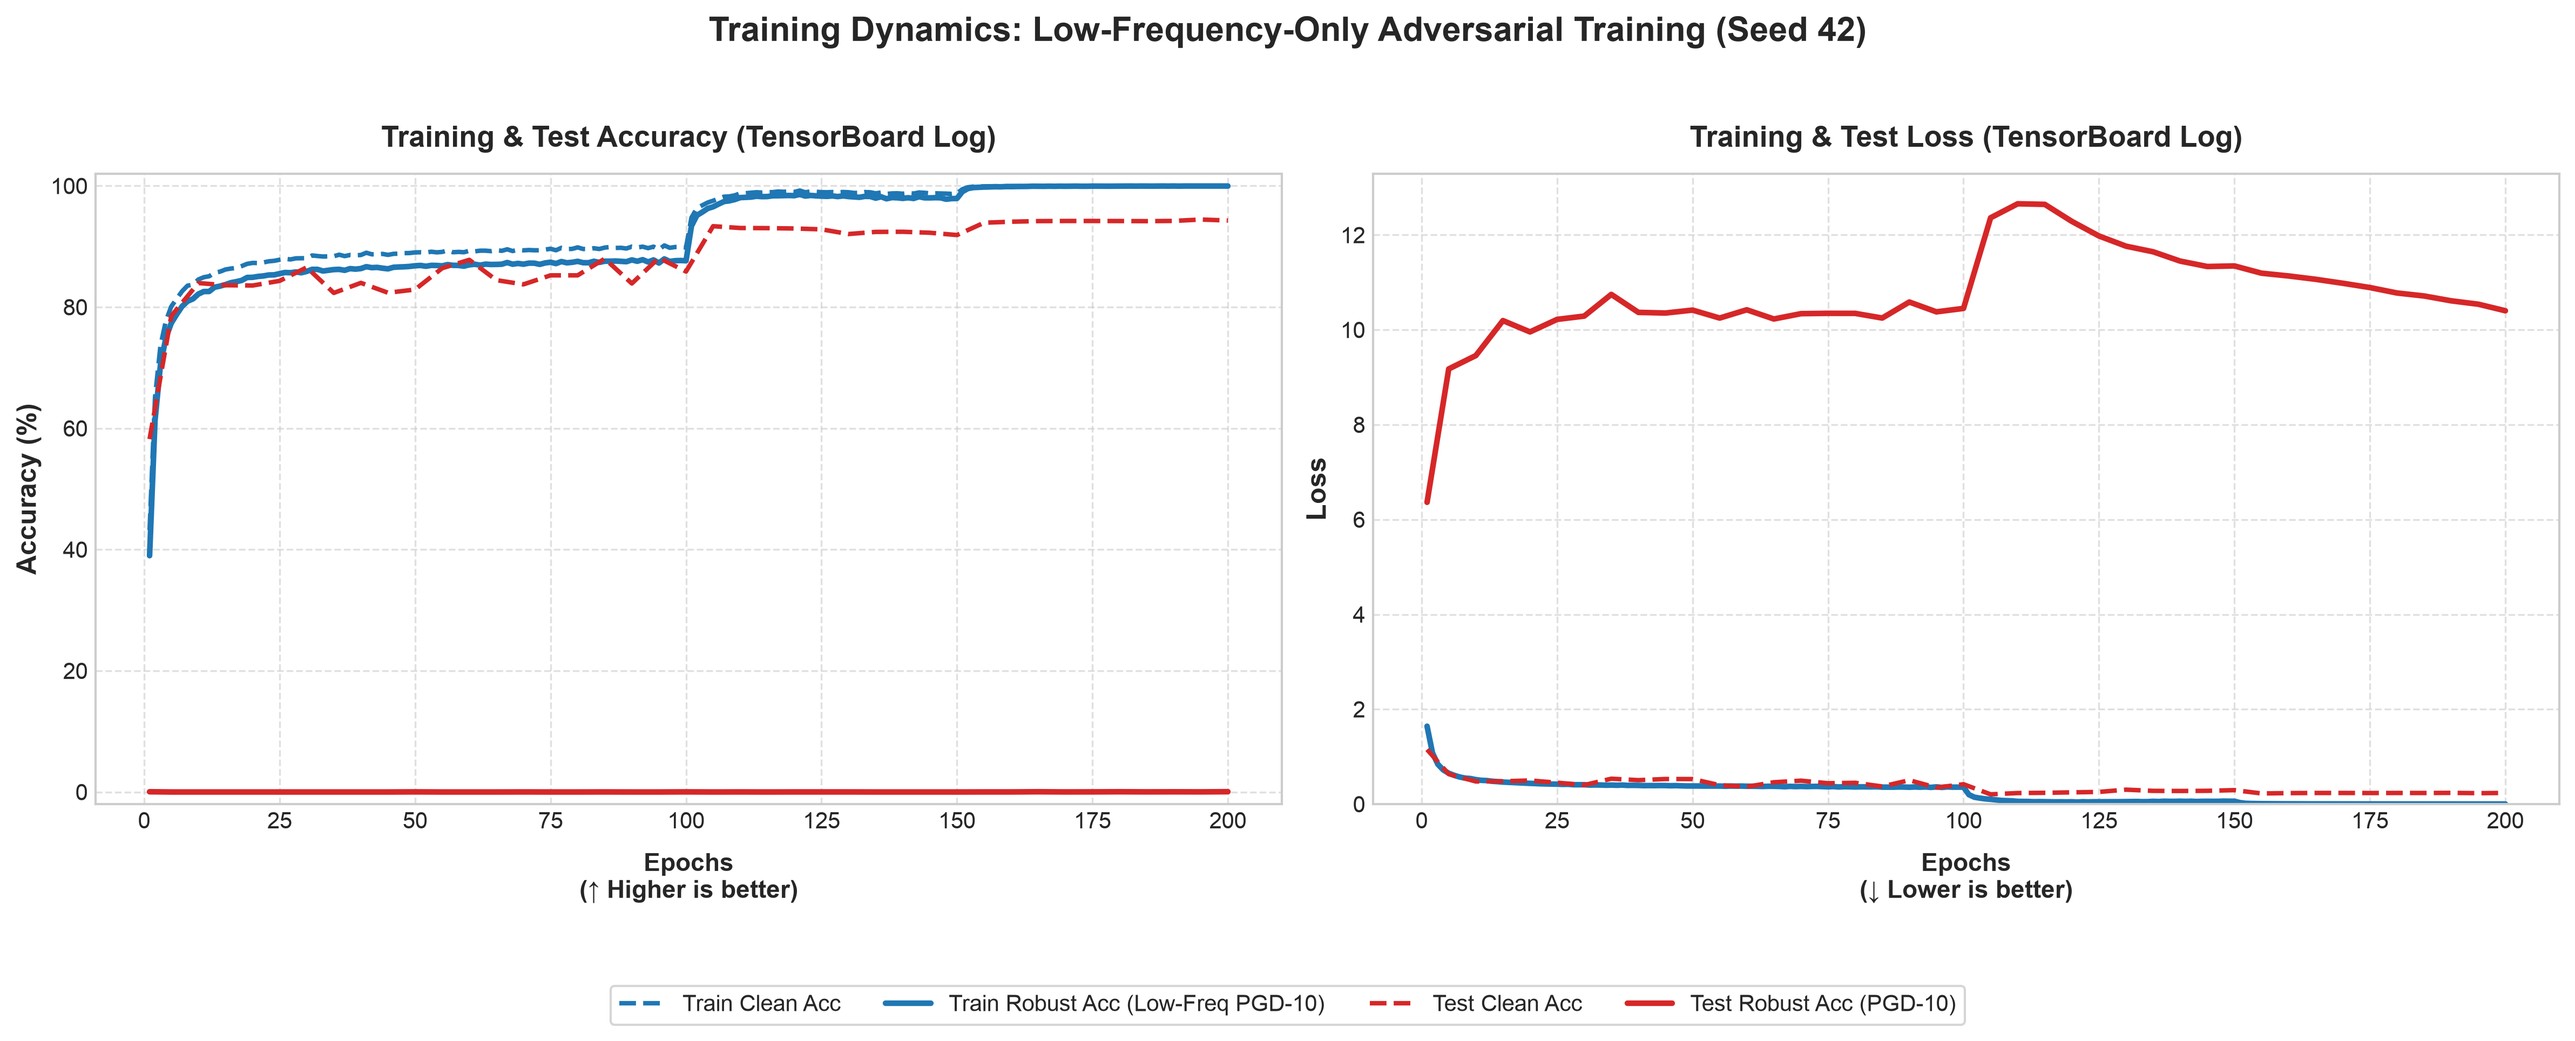
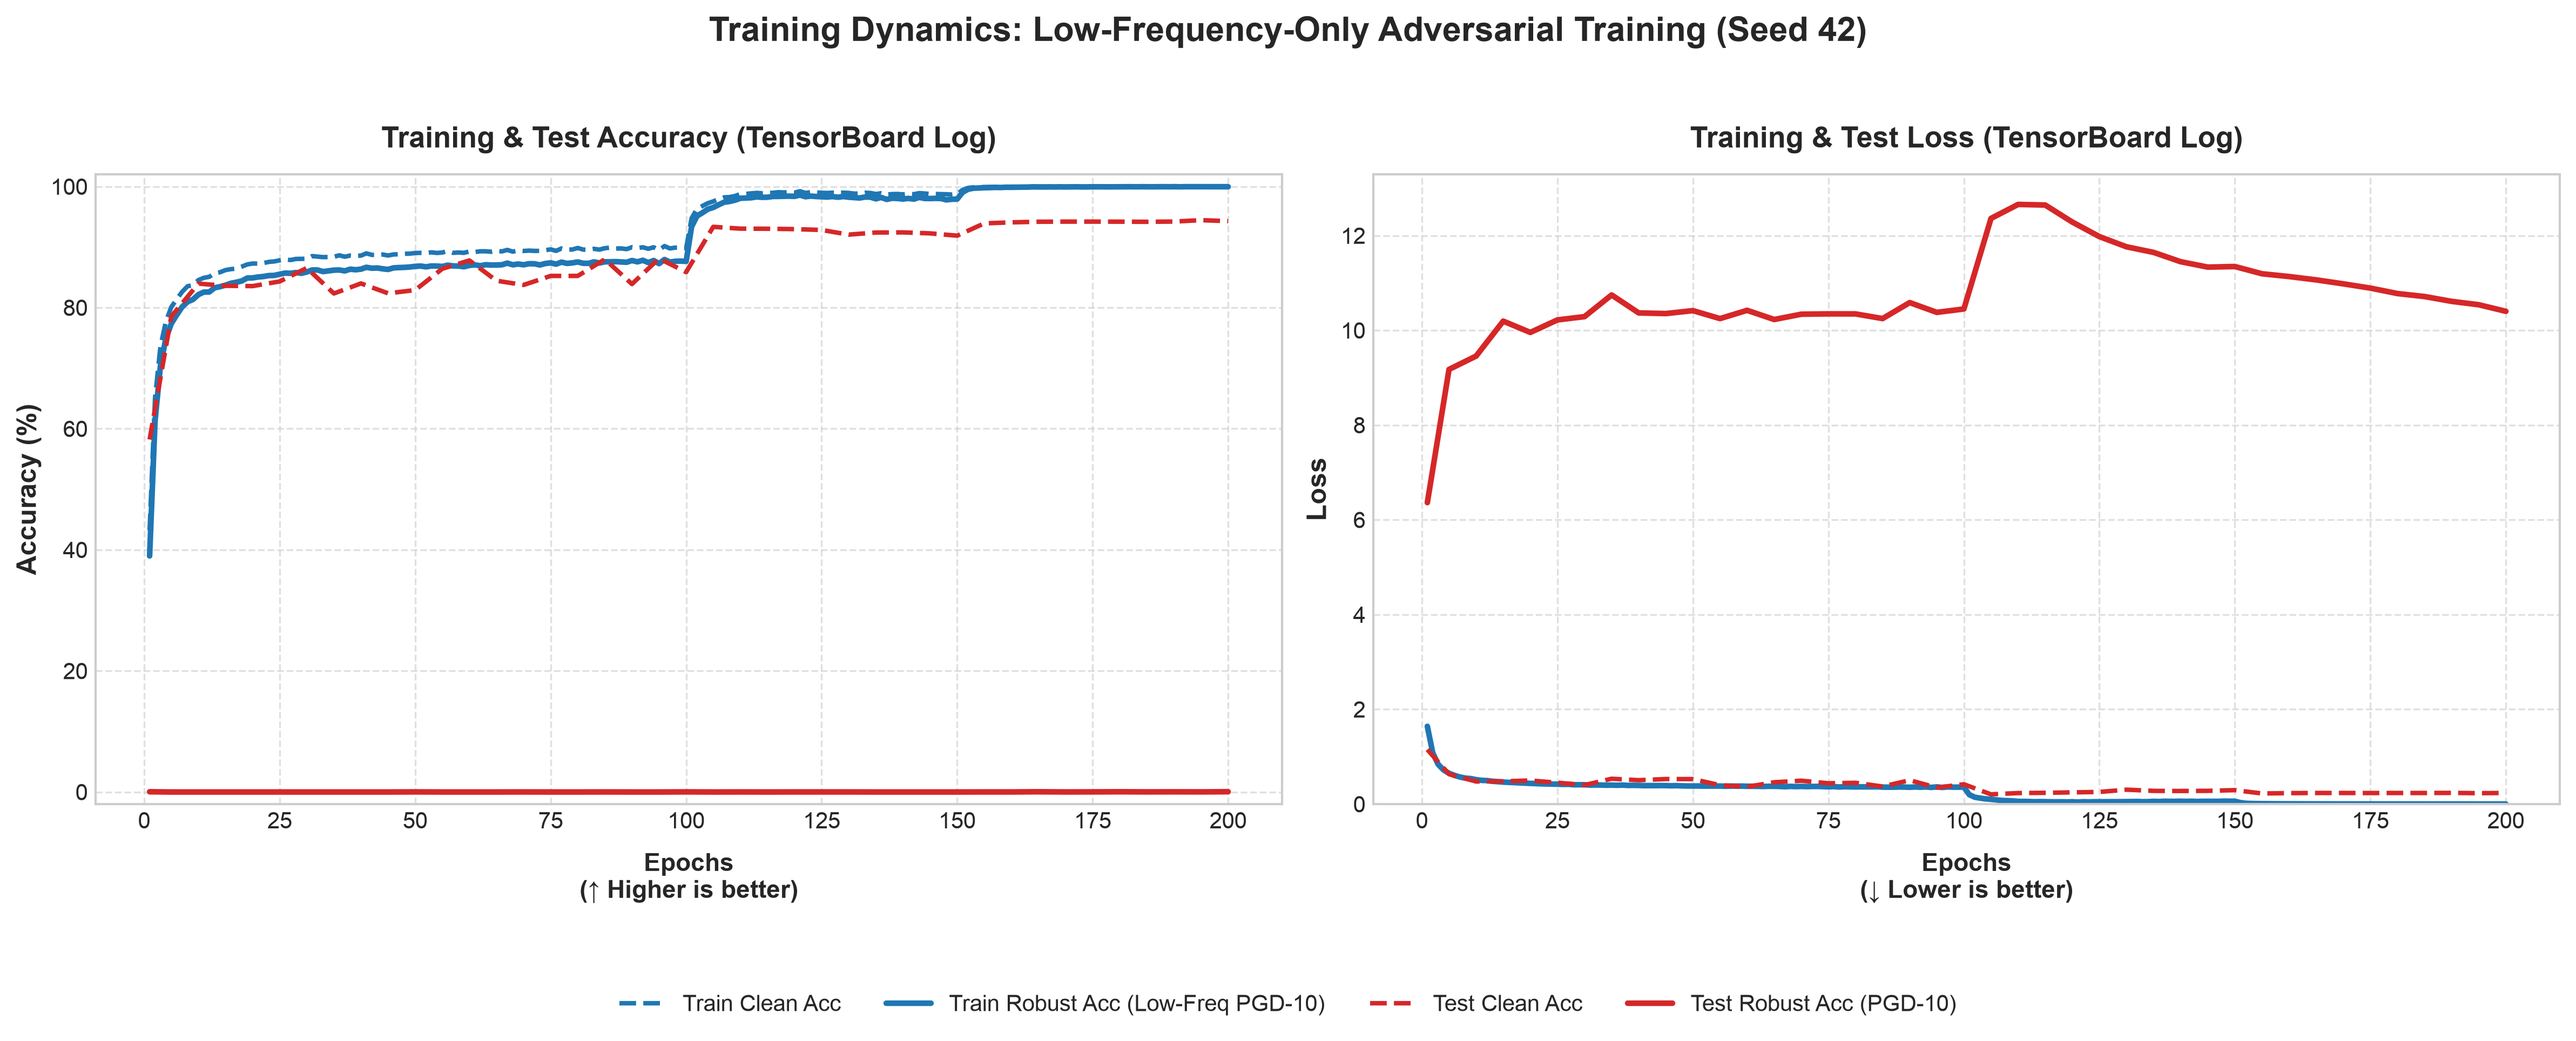
Commit: Remove Chart Legend Frames
1. Removed gray borders from training and evaluation legends.
2. Updated shared plotting logic for individual-run and aggregate charts.
3. Regenerated report charts for low-frequency, pixel-only, and mixed-domain runs.

diff --git a/scripts/plot_results.py b/scripts/plot_results.py
@@ -147,7 +147,7 @@ def plot_results(csv_path, output_path, training_mode='pixel-only', title_suffix
     plt.suptitle(f'Robust Overfitting Investigation: {condition_title}', fontsize=15, fontweight='bold', y=0.98)
 
     handles, labels = ax1.get_legend_handles_labels()
-    fig.legend(handles, labels, loc='lower center', bbox_to_anchor=(0.5, -0.07), ncol=len(labels), frameon=True, facecolor='white', edgecolor='#cccccc', fontsize=10)
+    fig.legend(handles, labels, loc='lower center', bbox_to_anchor=(0.5, -0.07), ncol=len(labels), frameon=False, fontsize=10)
     plt.tight_layout(rect=[0, 0.04, 1, 0.95])
 
     os.makedirs(os.path.dirname(output_path) or '.', exist_ok=True)
@@ -259,7 +259,7 @@ def plot_training_results(tb_dir, output_path, training_mode='pixel-only', title
     plt.suptitle(f'Training Dynamics: {condition_title}', fontsize=15, fontweight='bold', y=0.98)
 
     handles, labels = ax1.get_legend_handles_labels()
-    fig.legend(handles, labels, loc='lower center', bbox_to_anchor=(0.5, -0.07), ncol=len(labels), frameon=True, facecolor='white', edgecolor='#cccccc', fontsize=10)
+    fig.legend(handles, labels, loc='lower center', bbox_to_anchor=(0.5, -0.07), ncol=len(labels), frameon=False, fontsize=10)
     plt.tight_layout(rect=[0, 0.04, 1, 0.95])
 
     os.makedirs(os.path.dirname(output_path) or '.', exist_ok=True)
@@ -443,7 +443,7 @@ def plot_aggregate_evaluation_results(report_mode_dir, output_png_path, training
     plt.suptitle(f'Robust Overfitting Investigation: {condition_title} ({agg["num_seeds"]}-Seed Overall)', fontsize=15, fontweight='bold', y=0.98)
 
     handles, labels = ax1.get_legend_handles_labels()
-    fig.legend(handles, labels, loc='lower center', bbox_to_anchor=(0.5, -0.07), ncol=len(labels), frameon=True, facecolor='white', edgecolor='#cccccc', fontsize=10)
+    fig.legend(handles, labels, loc='lower center', bbox_to_anchor=(0.5, -0.07), ncol=len(labels), frameon=False, fontsize=10)
     plt.tight_layout(rect=[0, 0.04, 1, 0.95])
 
     os.makedirs(os.path.dirname(output_png_path) or '.', exist_ok=True)
@@ -551,7 +551,7 @@ def plot_aggregate_training_results(runs_mode_dir, output_png_path, training_mod
     plt.suptitle(f'Training Dynamics: {condition_title} ({agg["num_seeds"]}-Seed Overall)', fontsize=15, fontweight='bold', y=0.98)
 
     handles, labels = ax1.get_legend_handles_labels()
-    fig.legend(handles, labels, loc='lower center', bbox_to_anchor=(0.5, -0.07), ncol=len(labels), frameon=True, facecolor='white', edgecolor='#cccccc', fontsize=10)
+    fig.legend(handles, labels, loc='lower center', bbox_to_anchor=(0.5, -0.07), ncol=len(labels), frameon=False, fontsize=10)
     plt.tight_layout(rect=[0, 0.04, 1, 0.95])
 
     os.makedirs(os.path.dirname(output_png_path) or '.', exist_ok=True)

diff --git a/progress.md b/progress.md
@@ -123,3 +123,17 @@
   * [`README.md`](README.md): Documents the three modes, output-directory layout, commands, and updated project structure.
   * [`goals.md`](goals.md): Updated schedule for 10 low-frequency-only runs, 10 pixel-only runs, 10 mixed-domain runs, and the later full comparison.
   * Local and Lambda Labs diagnostic checkpoints, TensorBoard logs, and four-metric evaluation CSV files for all three training modes.
+
+---
+
+## Week 10 (Completed)
+* **Progress Report:** This week, I ran five full 200-epoch low-frequency-only adversarial-training experiments on Lambda Labs using seeds 42 through 46, saved 40 checkpoints and TensorBoard logs for each run, and evaluated every checkpoint on clean images, pixel-space PGD-20, low-frequency DCT-masked PGD-20, and their per-image union. The results show that the models were consistently robust to the low-frequency attacks they were trained against: peak low-frequency robust accuracy ranged from 84.22% to 85.32% across the five seeds, and the five-seed average at epoch 200 was 84.50%. In contrast, pixel-space and union robust accuracy never exceeded 0.02%, so the models remained almost completely vulnerable to unrestricted pixel-space attacks; low-frequency robustness also remained largely stable late in training, with only small end-of-training declines in two seeds. This matches my prediction: training against the restricted, smooth low-frequency perturbations produced strong low-frequency robustness but did not transfer to the broader pixel-space threat model, which also caused union robustness to remain near zero.
+
+* **Deliverables:**
+  * [`checkpoints/low-frequency-only/`](checkpoints/low-frequency-only/): Five seed-specific folders containing 40 saved model checkpoints each, from epochs 5 through 200.
+  * [`runs/low-frequency-only/`](runs/low-frequency-only/): TensorBoard event logs for the five full low-frequency-only training runs.
+  * [`report/low-frequency-only/`](report/low-frequency-only/): Seed-specific evaluation CSVs, evaluation figures (`robust_overfitting_curves.png`), and training dynamics figures (`training_results_curves.png`) across all 5 seeds.
+  * [`report/low-frequency-only/overall/`](report/low-frequency-only/overall/): 5-seed overall evaluation curves, training dynamics curves with mean $\pm 1\text{ SD}$ error bands, and summary CSV (`evaluation_results.csv`).
+  * [`scripts/evaluate.py`](scripts/evaluate.py): Used to evaluate all saved checkpoints under clean, pixel-PGD-20, low-frequency-PGD-20, and union conditions.
+  * [`scripts/plot_results.py`](scripts/plot_results.py): Unified plotting script generating per-seed and aggregated evaluation and training curves.
+  * [`goals.md`](goals.md): Week 10 status updated to Completed after all five runs and evaluations finished.

diff --git a/goals.md b/goals.md
@@ -119,7 +119,7 @@ This document tracks weekly goals, objectives, expectations, and deliverables fo
 
 ---
 
-## Week 10 (In Progress)
+## Week 10 (Completed)
 * **Objective:** Run and analyze low-frequency-only experiment across 5 seeds.
 
   1. Run 5 full low-frequency-only training experiments on Lambda Labs using 5 different seeds. I plan to run them in parallel (x5 NVIDIA A10 GPUs) to save time.
